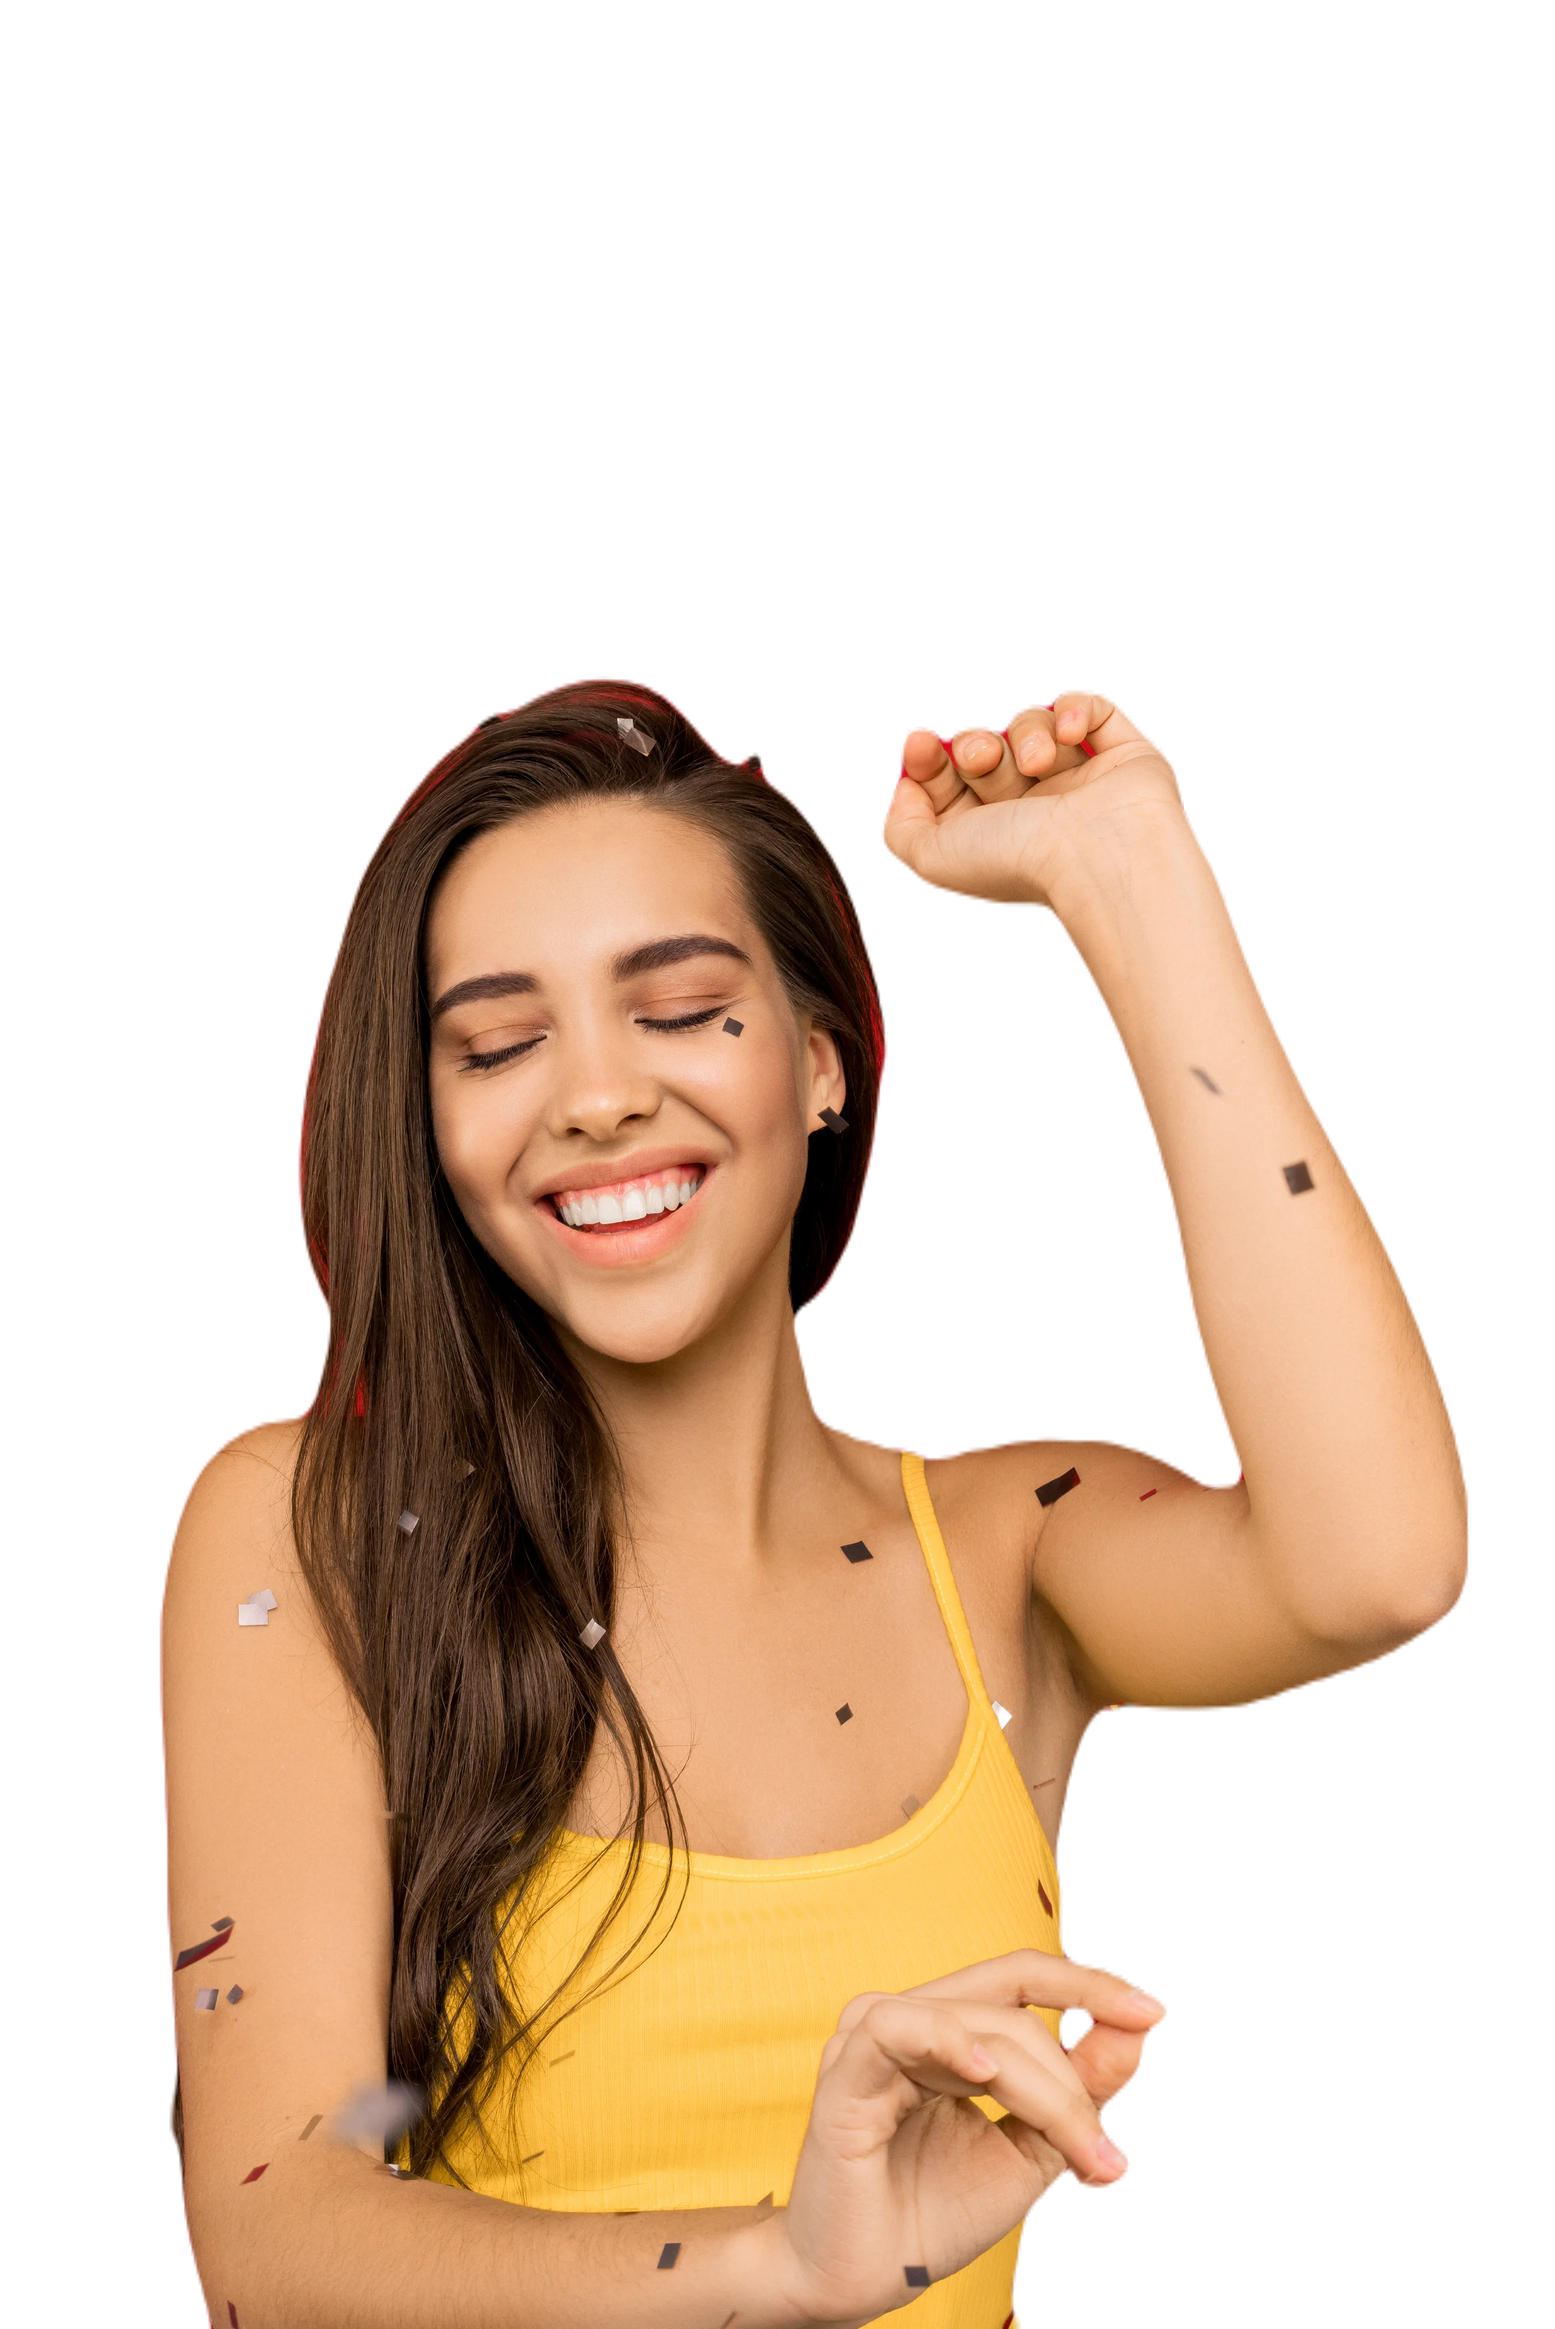
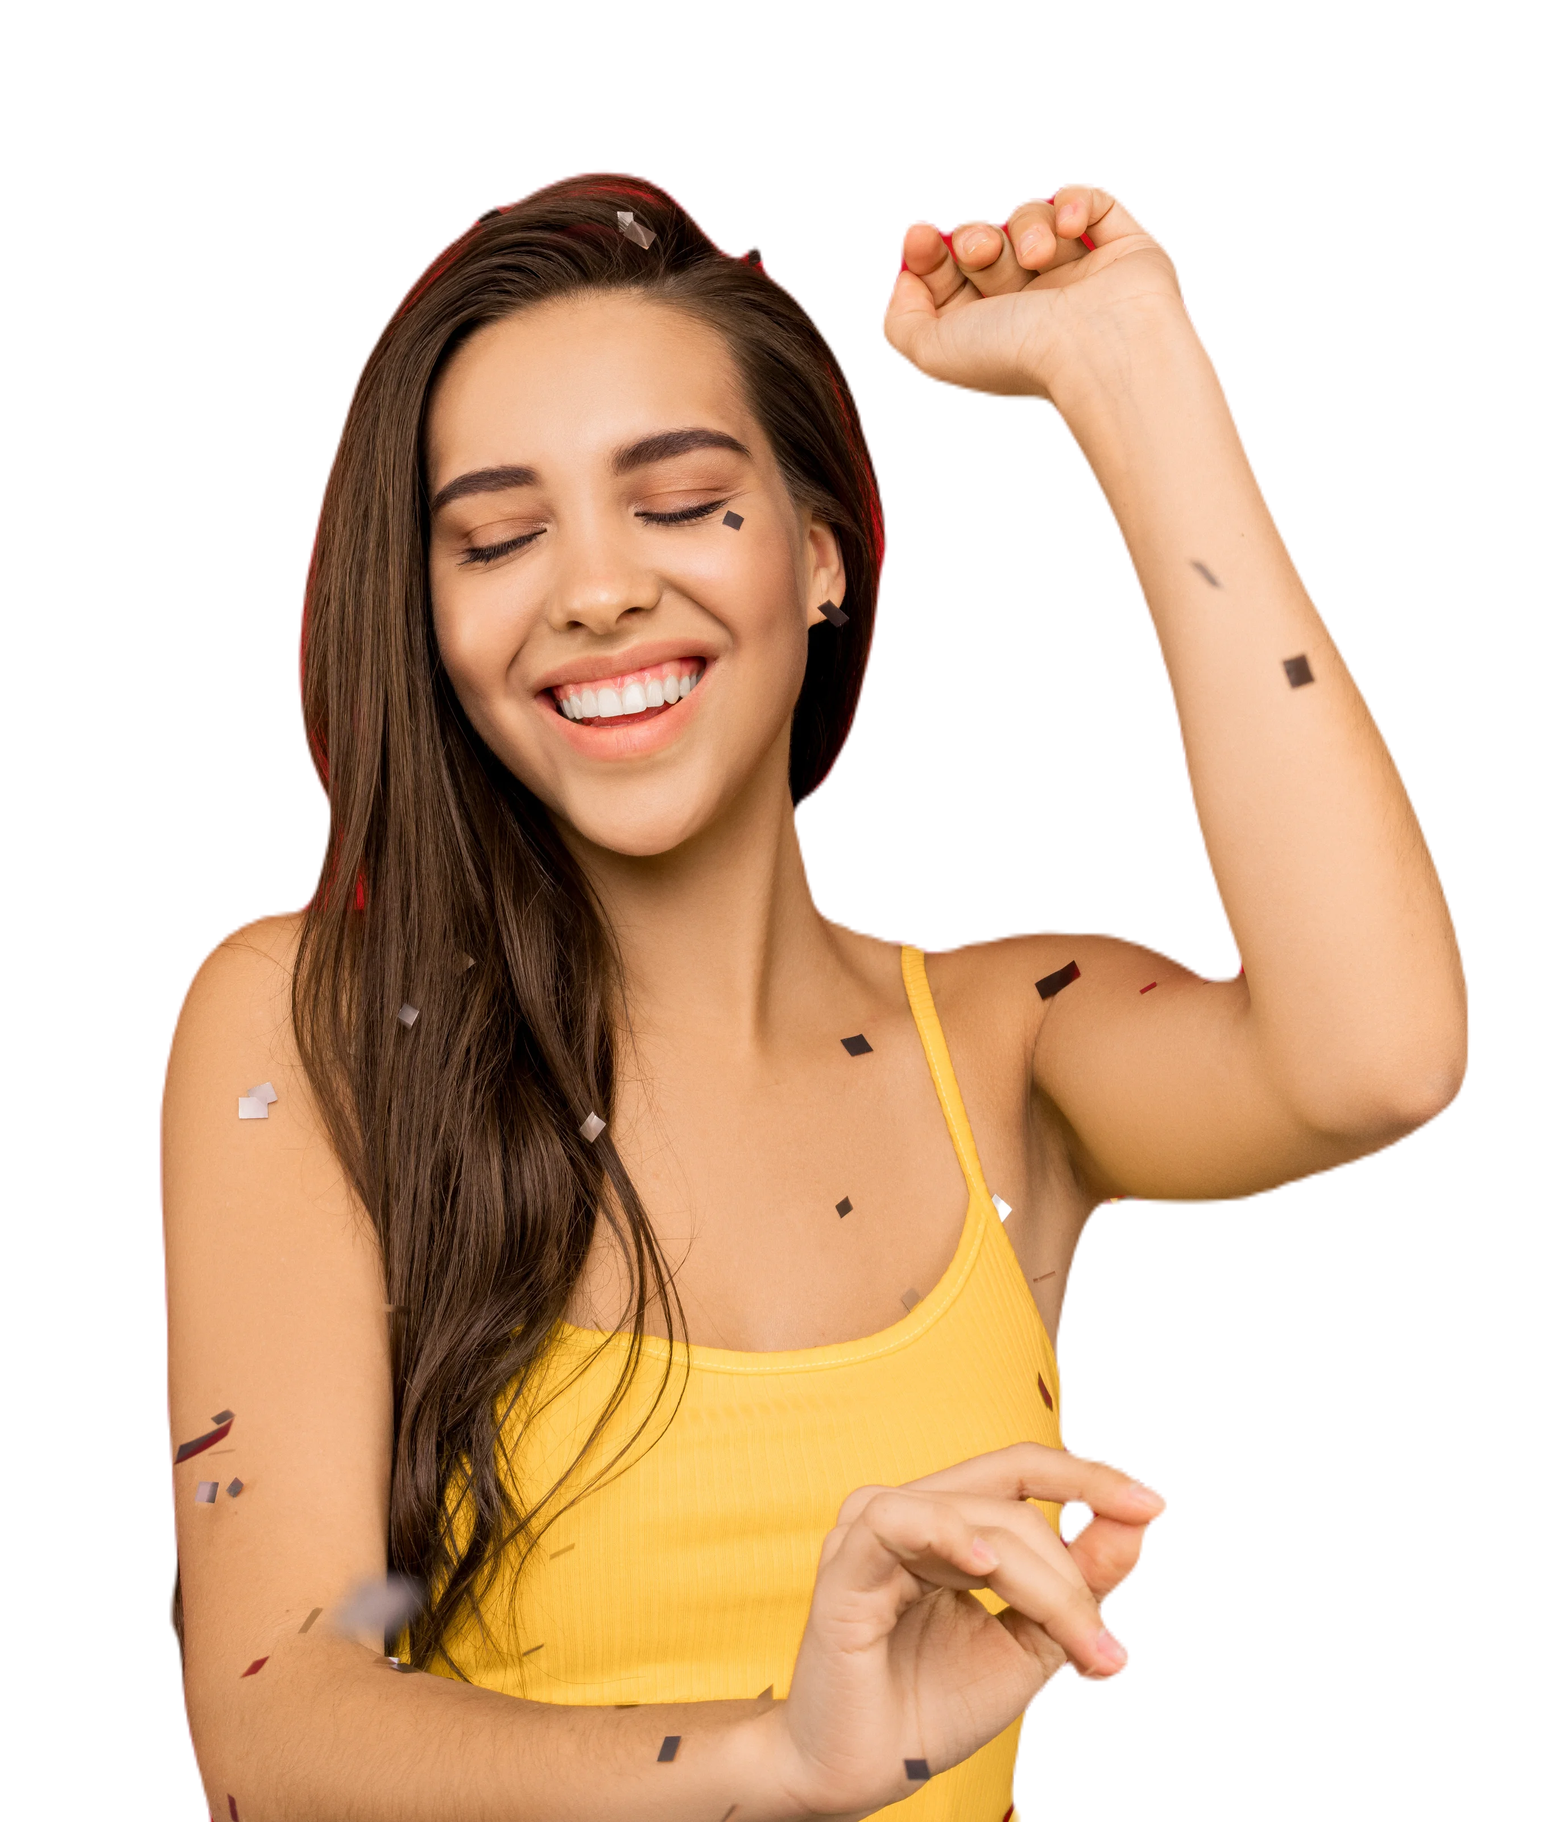
se agregó archivo nosotros y se armó el header y la sección 1

diff --git a/css/style.css b/css/style.css
@@ -2090,7 +2090,7 @@ footer {
 
 .nosotros-seccion-4 {
     width: 100vw;
-    height: 850px;
+    height: 870px;
     background-color: rgb(216, 216, 216);
 }
 
@@ -2098,6 +2098,7 @@ footer {
     width: 100vw;
     height: 80px;
     padding-top: 50px;
+    margin-bottom: 10px;
 }
 
 .nosotros-seccion-4-linea-amarilla {
@@ -2125,6 +2126,7 @@ footer {
     font-size: calc(14px + 1.5vw);
     color: #404040;
     margin-bottom: 30px;
+    margin-top: 15px;
 }
 
 .nosotros-seccion-4-trabajo-parte-1 {
@@ -2276,6 +2278,7 @@ footer {
 
     .nosotros-seccion-4-trabajo-titulo h2 {
         font-size: calc(12px + 1vw);
+        margin-top: 0px;
     }
 
     .nosotros-seccion-4-trabajo-parte-1 {
@@ -2291,11 +2294,12 @@ footer {
     }
     
     .nosotros-seccion-4-trabajo-parte-1 p {
-        font-size: calc(12px + 0.5vw);
+        font-size: calc(12px + 0.25vw);
     }
     
     .nosotros-seccion-4-trabajo-parte-1 a {
         width: 200px;
+        font-style: italic;
         font-size: calc(12px + 0.25vw);
     }
 
@@ -2312,11 +2316,12 @@ footer {
     }
     
     .nosotros-seccion-4-trabajo-parte-2 p {
-        font-size: calc(12px + 0.5vw);
+        font-size: calc(12px + 0.25vw);
     }
     
     .nosotros-seccion-4-trabajo-parte-2 a {
         width: 200px;
+        font-style: italic;
         font-size: calc(12px + 0.25vw);
     }
 
@@ -2333,12 +2338,130 @@ footer {
     }
     
     .nosotros-seccion-4-trabajo-parte-3 p {
-        font-size: calc(12px + 0.5vw);
+        font-size: calc(12px + 0.25vw);
     }
     
     .nosotros-seccion-4-trabajo-parte-3 a {
         width: 200px;
+        font-style: italic;
         font-size: calc(12px + 0.25vw);
     }
 
+}
+
+/* === Servicios === */
+
+  /* --- Main --- */
+
+  /* ___ Primera sección o portada___ */
+
+.servicios-portada{
+    width: 100vw;
+    height: 750px;
+    background-color: #ffc72c;
+}
+
+.servicios-portada-imagen{
+    width:100vw;
+    height: 50%;
+    display: flex;
+    justify-content: center;
+    align-items: center;
+}
+
+.servicios-portada-imagen img{
+    width: 90%;
+    height: 90%;
+    object-fit: contain;
+}
+
+.servicios-portada-cuadro {
+    width:100vw;
+    height: 50%;
+    display: flex;
+    justify-content: center;
+    align-items: center;
+}
+
+.servicios-portada-cuadro-texto{
+    width: 85%;
+    max-width: 450px;
+    border: 4px #404040 solid;
+    padding: 20px;
+}
+
+.servicios-portada-cuadro-texto h1{
+    font-size: calc(20px + 2.5vw);
+    font-weight: bold;
+    color: #404040;
+    padding-bottom: 10px;
+}
+
+.servicios-portada-cuadro-texto p{
+    font-size: calc(11px + 0.6vw);
+    color: #404040;
+    padding: 0 1px 0 0;
+}
+
+/* servicios portada media screen */
+
+@media screen and (min-width: 768px) {
+    .servicios-portada{
+        height: 700px;
+        display: grid;
+        grid-template-columns: repeat(2, 50vw);
+        grid-template-rows: 700px;
+
+        justify-content: center;
+        align-content: center;
+
+        justify-items: center;
+        align-items: center;
+    }
+
+    .servicios-portada-imagen{
+        width:100%;
+        height: 80%;
+    }
+
+    .servicios-portada-cuadro {
+        width:100%;
+        height: 80%;
+    }
+    
+    .servicios-portada-cuadro-texto{
+        width: 85%;
+        max-width: 600px;
+        padding: 20px;
+    }
+    
+    .servicios-portada-cuadro-texto h1{
+        font-size: calc(18px + 2vw);
+    }
+    
+    .servicios-portada-cuadro-texto p{
+        font-size: calc(12px + 0.5vw);
+        padding: 0 1px 0 0;
+    }
+    
+}
+
+@media screen and (min-width: 1200px) {
+
+    .servicios-portada-cuadro-texto{
+        width: 85%;
+        max-width: 550px;
+        max-height: 600px;
+        border: 4px #404040 solid;
+        padding: 40px;
+    }
+    
+    .servicios-portada-cuadro-texto h1{
+        font-size: calc(20px + 2vw);
+        margin: 15px 0px;
+    }
+    
+    .servicios-portada-cuadro-texto p{
+        font-size: calc(12px + 0.55vw);
+    }
 }

diff --git a/pages/servicios.html b/pages/servicios.html
@@ -1,0 +1,70 @@
+<!DOCTYPE html>
+<html lang="en">
+
+<head>
+    <meta charset="UTF-8">
+    <meta http-equiv="X-UA-Compatible" content="IE=edge">
+    <meta name="viewport" content="width=device-width, initial-scale=1.0">
+    <link rel="stylesheet" href="../css/style.css">
+    <link
+        href="https://fonts.googleapis.com/css2?family=Raleway:ital,wght@0,100;0,200;0,300;0,400;0,500;0,600;0,700;0,800;0,900;1,100;1,200;1,300;1,400;1,500;1,600;1,700;1,800;1,900&display=swap"
+        rel="stylesheet">
+    <title>BDG Consulting 4.0</title>
+</head>
+
+<body>
+
+    <header>
+        <img src="../img/header__logo.webp" alt="Logo gris con fondo transparente de BDG Consulting 4.0">
+        <h1>BDG CONSULTING 4.0</h1>
+        <div class="boton-header">
+            <input id="boton-menu" , type="checkbox">
+            <label for="boton-menu">
+                <img class="logo-menu" src="../img/header_menu.webp" alt="Logo de de tres líneas gris horizontales con fondo transparente">
+            </label>
+            <div class="menu-desplegable">
+                <a class="menu-desplegable-texto" href="../index.html">Nosotros</a>
+                <a class="menu-desplegable-texto" href="../pages/nosotros.html">Servicios</a>
+                <a class="menu-desplegable-texto" href="../pages/innovacion.html">Innovación</a>
+                <a class="menu-desplegable-texto" href="../pages/contacto.html">Contacto</a>
+            </div>
+        </div>
+    </header>
+
+    <main>
+
+    <!-- Sección 1 o Portada -->
+
+        <section class="servicios-portada">
+            <div class="servicios-portada-imagen">
+                <img src="../img/servicios_seccion_1_mujer_celebrando.webp" alt="Mujer joven celebrando buenos resultados">
+            </div>
+            <div class="servicios-portada-cuadro">
+                <div class="servicios-portada-cuadro-texto">
+                    <h1>Negocios 4.0</h1>
+                    <p>Somos una empresa dedicada al desarrollo de negocio mediante la implementación de inteligencia artificial. Esto significa que trabajamos de forma interdisciplinar para alcanzar el máximo nivel de sostenibilidad y eficiencia en el diseño, manufactura, venta y reciclado de productos y servicios. Nuestra tarea es también ayudar a identificar nuevas oportunidades y alianzas estratégicas</p>
+                </div>
+            </div>
+
+        </section>
+
+
+
+
+
+
+
+
+
+
+
+
+
+
+
+
+
+    </main>
+
+</body>
+</html>
